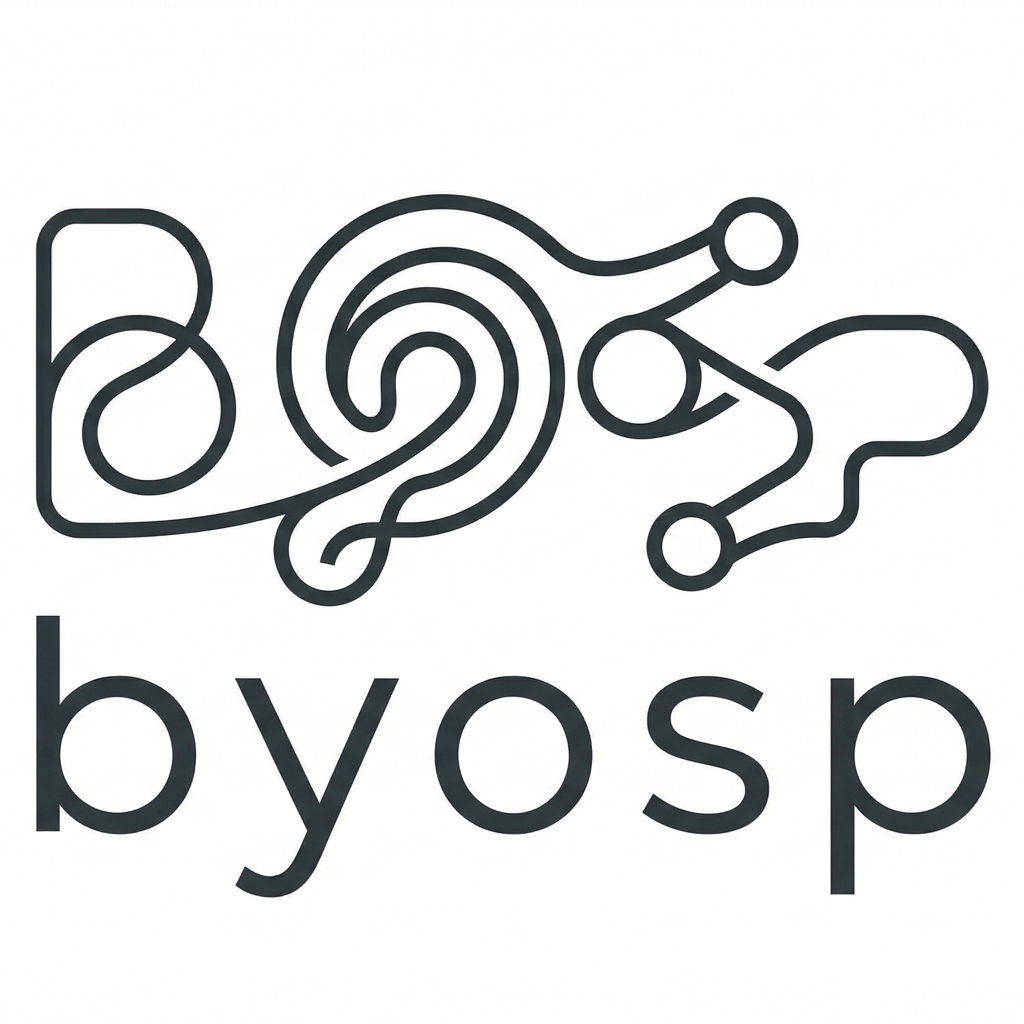
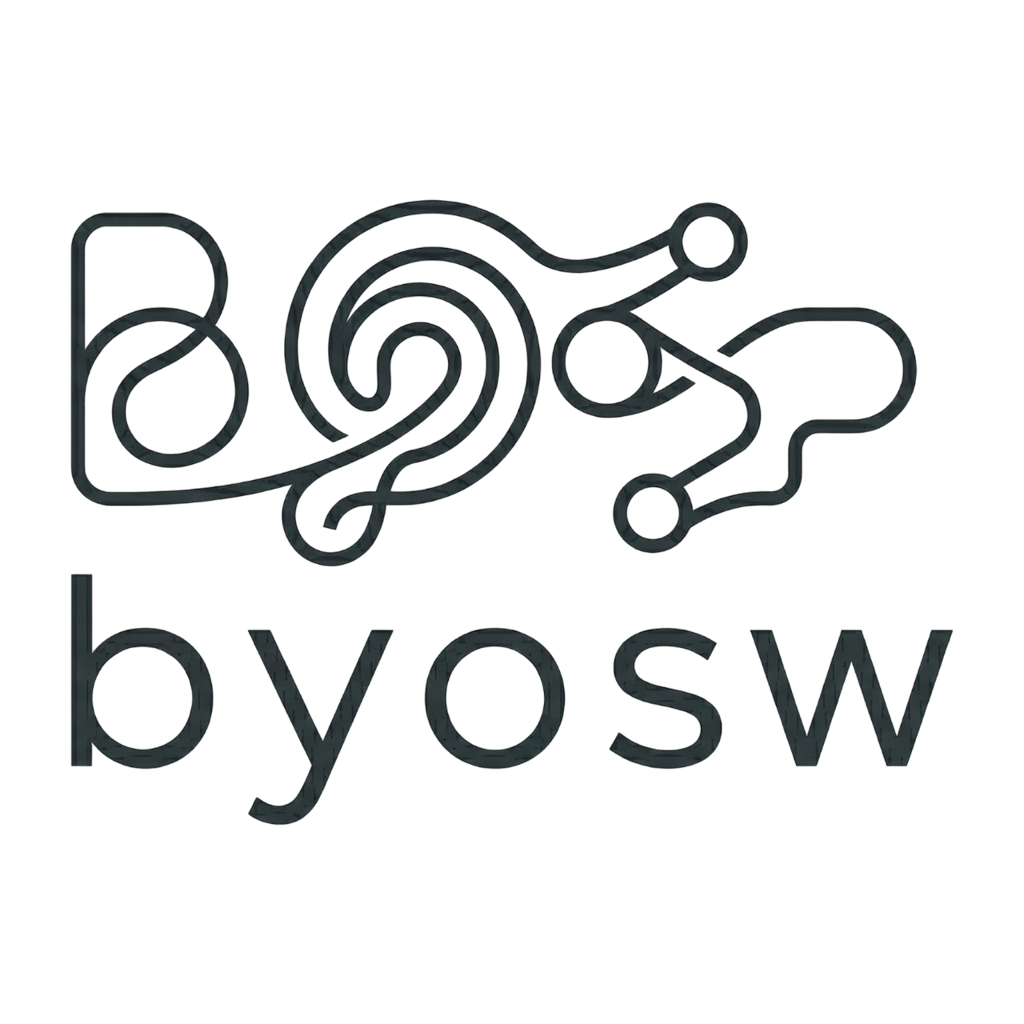
feat: 品牌名稱統一為 byosw、SafeAreaProvider 包裹、硬編碼色值改用 CSS 變數
- 全面將 byosp 更名為 byosw（theme.tsx、global.css、i18n、CLAUDE.md、UI spec）
- RootLayout 加入 SafeAreaProvider，tab bar 底部間距正確適配 safe area
- 首頁 header 移除自訂 headerTitle，回歸預設文字標題
- Button/FAB/友人頁/群組頁硬編碼 white 改為 hsl(var(--primary-foreground))
- Web 端 tab bar bottomInset 最低 8px 避免被瀏覽器工具列遮擋
- 更新全部 app icon / splash / favicon 圖片資源

Changed region(s): [[0.0312, 0.1875, 0.9688, 0.875], [0.3125, 0.2188, 0.3438, 0.25]]

diff --git a/mobile/app/(tabs)/_layout.tsx b/mobile/app/(tabs)/_layout.tsx
@@ -1,5 +1,5 @@
 import { useCallback, useEffect } from "react";
-import { Platform, View, Text } from "react-native";
+import { Platform, View } from "react-native";
 import { Tabs, useFocusEffect, usePathname } from "expo-router";
 import { useSafeAreaInsets } from "react-native-safe-area-context";
 import { useTranslation } from "react-i18next";
@@ -12,7 +12,10 @@ import { useAuthStore } from "~/stores/auth";
 export default function TabsLayout() {
   const { t } = useTranslation();
   const { isDark, colorScheme } = useTheme();
-  const insets = useSafeAreaInsets();
+  const rawInsets = useSafeAreaInsets();
+  // Web 上 useSafeAreaInsets 可能回傳 0（viewport 未設 viewport-fit=cover），
+  // 給予最低 8px 底部間距，避免 tab bar 被瀏覽器工具列遮擋
+  const bottomInset = Platform.OS === "web" ? Math.max(rawInsets.bottom, 8) : rawInsets.bottom;
   const isAuthenticated = useAuthStore((s) => s.isAuthenticated);
   const unreadCount = useNotificationStore((s) => s.unreadCount);
   const fetchUnreadCount = useNotificationStore((s) => s.fetchUnreadCount);
@@ -50,8 +53,8 @@ export default function TabsLayout() {
           backgroundColor: isDark ? "#0A0C0F" : "#FFFFFF",
           borderTopWidth: 1,
           borderTopColor: isDark ? "rgba(255,255,255,0.06)" : "rgba(0,0,0,0.06)",
-          height: 50 + insets.bottom,
-          paddingBottom: 4 + insets.bottom,
+          height: 50 + bottomInset,
+          paddingBottom: 4 + bottomInset,
           paddingTop: 4,
         },
         tabBarIconStyle: {
@@ -83,18 +86,6 @@ export default function TabsLayout() {
         name="index"
         options={{
           title: t("groups"),
-          headerTitle: () => (
-            <Text
-              style={{
-                fontSize: 18,
-                fontWeight: "700",
-                color: isDark ? "#FAFAFA" : "#18181B",
-                letterSpacing: 0.5,
-              }}
-            >
-              byosp
-            </Text>
-          ),
           tabBarIcon: ({ color, focused }) => (
             <SquaresFour size={20} color={color} weight={focused ? "fill" : "regular"} />
           ),

diff --git a/mobile/lib/theme.tsx b/mobile/lib/theme.tsx
@@ -5,14 +5,14 @@ import { authAPI } from "../services/api";
 import { useAuthStore } from "../stores/auth";
 
 type Theme = "light" | "dark" | "system";
-export type ColorScheme = "byosp" | "blue" | "green" | "purple" | "warm" | "coral" | "slate";
+export type ColorScheme = "byosw" | "blue" | "green" | "purple" | "warm" | "coral" | "slate";
 
 export const COLOR_SCHEMES: {
   id: ColorScheme;
   labelKey: string;
   preview: { light: string; dark: string };
 }[] = [
-  { id: "byosp",  labelKey: "scheme_byosp",  preview: { light: "#0F172A", dark: "#E2E8F0" } },
+  { id: "byosw",  labelKey: "scheme_byosw",  preview: { light: "#0F172A", dark: "#E2E8F0" } },
   { id: "blue",   labelKey: "scheme_blue",   preview: { light: "#3B82F6", dark: "#60A5FA" } },
   { id: "green",  labelKey: "scheme_green",  preview: { light: "#5BC5A7", dark: "#4DB899" } },
   { id: "purple", labelKey: "scheme_purple", preview: { light: "#6E4CE5", dark: "#8B6CF7" } },
@@ -48,7 +48,7 @@ const COLOR_SCHEME_KEY = "byosw-color-scheme";
 export function ThemeProvider({ children }: { children: React.ReactNode }) {
   const systemScheme = useRNColorScheme();
   const [theme, setThemeState] = useState<Theme>("system");
-  const [colorScheme, setColorSchemeState] = useState<ColorScheme>("byosp");
+  const [colorScheme, setColorSchemeState] = useState<ColorScheme>("byosw");
 
   useEffect(() => {
     Promise.all([
@@ -147,6 +147,6 @@ export function useThemeClassName() {
   const { isDark, colorScheme } = useTheme();
   const parts: string[] = [];
   if (isDark) parts.push("dark");
-  if (colorScheme !== "byosp") parts.push(`scheme-${colorScheme}`);
+  if (colorScheme !== "byosw") parts.push(`scheme-${colorScheme}`);
   return parts.join(" ");
 }

diff --git a/mobile/app/_layout.tsx b/mobile/app/_layout.tsx
@@ -5,6 +5,7 @@ import { Stack, useRouter, useSegments } from "expo-router";
 import { StatusBar } from "expo-status-bar";
 import { View } from "react-native";
 import { GestureHandlerRootView } from "react-native-gesture-handler";
+import { SafeAreaProvider } from "react-native-safe-area-context";
 import { ThemeProvider as NavThemeProvider, DarkTheme, DefaultTheme } from "@react-navigation/native";
 import { ThemeProvider, useTheme, COLOR_SCHEMES } from "~/lib/theme";
 import { useAuthStore } from "../stores/auth";
@@ -13,7 +14,7 @@ import { useNotificationStore } from "~/stores/notification";
 import { usePendingSettlementsStore } from "~/stores/pending-settlements";
 
 const SCHEME_CLASS: Record<string, string> = {
-  byosp: "",
+  byosw: "",
   blue: "scheme-blue",
   green: "scheme-green",
   purple: "scheme-purple",
@@ -108,10 +109,12 @@ function InnerLayout() {
 
 export default function RootLayout() {
   return (
-    <GestureHandlerRootView style={{ flex: 1 }}>
-      <ThemeProvider>
-        <InnerLayout />
-      </ThemeProvider>
-    </GestureHandlerRootView>
+    <SafeAreaProvider>
+      <GestureHandlerRootView style={{ flex: 1 }}>
+        <ThemeProvider>
+          <InnerLayout />
+        </ThemeProvider>
+      </GestureHandlerRootView>
+    </SafeAreaProvider>
   );
 }

diff --git a/mobile/app/group/[id].tsx b/mobile/app/group/[id].tsx
@@ -1969,9 +1969,9 @@ export default function GroupDetailScreen() {
                                 className="h-8 w-8 rounded-full bg-primary items-center justify-center"
                               >
                                 {addingFriendId === friend.id ? (
-                                  <ActivityIndicator size="small" color="white" />
+                                  <ActivityIndicator size="small" color="hsl(var(--primary-foreground))" />
                                 ) : (
-                                  <UserPlus size={16} color="white" weight="bold" />
+                                  <UserPlus size={16} color="hsl(var(--primary-foreground))" weight="bold" />
                                 )}
                               </Pressable>
                             </CardContent>

diff --git a/mobile/components/ui/button.tsx b/mobile/components/ui/button.tsx
@@ -75,7 +75,13 @@ export function Button({
       {loading ? (
         <ActivityIndicator
           size="small"
-          color={variant === "default" || variant === "destructive" ? "#fff" : undefined}
+          color={
+            variant === "destructive"
+              ? "hsl(var(--destructive-foreground))"
+              : variant === "default"
+                ? "hsl(var(--primary-foreground))"
+                : undefined
+          }
           className="mr-2"
         />
       ) : null}

diff --git a/mobile/components/ui/fab.tsx b/mobile/components/ui/fab.tsx
@@ -18,7 +18,7 @@ export function FAB({ className, icon, label, ...props }: FABProps) {
       )}
       {...props}
     >
-      {icon ?? <Plus size={label ? 20 : 22} color="#fff" weight="regular" />}
+      {icon ?? <Plus size={label ? 20 : 22} color="hsl(var(--primary-foreground))" weight="regular" />}
       {label ? (
         <Text className="text-sm font-medium text-primary-foreground">{label}</Text>
       ) : null}

diff --git a/mobile/app/(tabs)/friends.tsx b/mobile/app/(tabs)/friends.tsx
@@ -399,7 +399,7 @@ export default function FriendsScreen() {
                   disabled={searching || !searchEmail.trim()}
                   className="self-start"
                 >
-                  <MagnifyingGlass size={18} color="white" weight="regular" />
+                  <MagnifyingGlass size={18} color="hsl(var(--primary-foreground))" weight="regular" />
                 </Button>
               </View>
 

diff --git a/mobile/global.css b/mobile/global.css
@@ -4,7 +4,7 @@
 
 @layer base {
   /* ===========================
-     Default: byosp 品牌色（極簡炭灰）
+     Default: byosw 品牌色（極簡炭灰）
      shadcn/ui zinc 風格 + logo 色調
      =========================== */
   :root {

diff --git a/docs/UI_DESIGN_SPEC.md b/docs/UI_DESIGN_SPEC.md
@@ -1,6 +1,6 @@
-# byosp UI Design Specification
+# byosw UI Design Specification
 
-> 此文件為 byosp 應用程式的 UI 設計唯一真相來源。所有視覺設計決策必須遵循此規範。
+> 此文件為 byosw 應用程式的 UI 設計唯一真相來源。所有視覺設計決策必須遵循此規範。
 
 ---
 
@@ -23,7 +23,7 @@
 
 ## 2. 色彩系統
 
-### 2.1 品牌色板（byosp 預設主題）
+### 2.1 品牌色板（byosw 預設主題）
 
 **Light Mode**:
 
@@ -74,7 +74,7 @@
 ### 3.1 字體
 
 - 使用系統預設 geometric sans-serif（San Francisco / Roboto / Inter）
-- 品牌元素（app name、tab label）使用 **小寫格式**，呼應 logo "byosp" 的小寫風格
+- 品牌元素（app name、tab label）使用 **小寫格式**，呼應 logo "byosw" 的小寫風格
 
 ### 3.2 字級
 
@@ -242,7 +242,7 @@ Card = rounded-xl + border border-border + bg-card
 
 ## 13. Dark Mode 規則
 
-延續 CLAUDE.md 既有規範，加上 byosp 品牌特化：
+延續 CLAUDE.md 既有規範，加上 byosw 品牌特化：
 
 - Background 帶 `hue 210`（blue-gray），saturation `8-10%`
 - Lightness 階梯：bg `4%` > card `9%` > secondary `13%` > accent `14%` > border `15%`
@@ -253,11 +253,11 @@ Card = rounded-xl + border border-border + bg-card
 
 ## 14. 多色系支援
 
-byosp 品牌色為預設主題。使用者可在帳號設定切換至其他色系：
+byosw 品牌色為預設主題。使用者可在帳號設定切換至其他色系：
 
 | ID | 名稱 | 主色 Hue |
 |----|------|---------|
-| `byosp` | 經典品牌 | 210（炭灰） |
+| `byosw` | 經典品牌 | 210（炭灰） |
 | `blue` | 信任藍 | 217 |
 | `green` | 活力綠 | 160 |
 | `purple` | 科技紫 | 258 |

diff --git a/CLAUDE.md b/CLAUDE.md
@@ -318,7 +318,7 @@ cd backend && pytest tests/
 
 > **UI 設計規範完整版**：`docs/UI_DESIGN_SPEC.md` -- 色彩系統、排版、圓角、間距、元件設計的唯一真相來源。
 
-### 11.0 UI 設計核心原則（byosp 品牌）
+### 11.0 UI 設計核心原則（byosw 品牌）
 
 - **設計哲學**：Minimalist, organic-tech, fluid, connected（極簡、有機科技、流動、高連結性）
 - **色彩**：深炭灰（`HSL 222 47% 11%`，shadcn zinc）+ 純白高對比，accent 用 muted teal（`HSL 174`）極度克制
@@ -327,7 +327,7 @@ cd backend && pytest tests/
 - **無陰影**：卡片用 `border border-border` 取代 shadow，保持平面極簡
 - **圖示**：phosphor-react-native，`regular` weight（line art），與 logo 風格一致
 - **留白**：寧多不少，用空間分組取代分隔線
-- **品牌格式**：app name / tab label 使用小寫，呼應 logo "byosp" 的小寫風格
+- **品牌格式**：app name / tab label 使用小寫，呼應 logo "byosw" 的小寫風格
 - **詳細規範**：所有色值、間距、元件尺寸請查閱 `docs/UI_DESIGN_SPEC.md`
 
 ### 11.1 表單輸入驗證

diff --git a/.claude/rules/project-standards.md b/.claude/rules/project-standards.md
@@ -78,4 +78,4 @@ backend/app/
 - Preview hex 必須與實際 primary 一致
 - 任意兩個 scheme 色相差距 >= 30 度
 - 設計配色前先搜尋業界 best practice，禁止憑直覺
-- byosp 品牌色為預設主題（shadcn zinc 風格，primary HSL 222 47% 11%），變更預設 scheme 需同步 5 處：global.css :root/.dark、theme.tsx（ColorScheme 型別 + COLOR_SCHEMES + useState 預設值）、_layout.tsx SCHEME_CLASS、useThemeClassName、三語 i18n（2026-04-05 回顧）
+- byosw 品牌色為預設主題（shadcn zinc 風格，primary HSL 222 47% 11%），變更預設 scheme 需同步 5 處：global.css :root/.dark、theme.tsx（ColorScheme 型別 + COLOR_SCHEMES + useState 預設值）、_layout.tsx SCHEME_CLASS、useThemeClassName、三語 i18n（2026-04-05 回顧）
